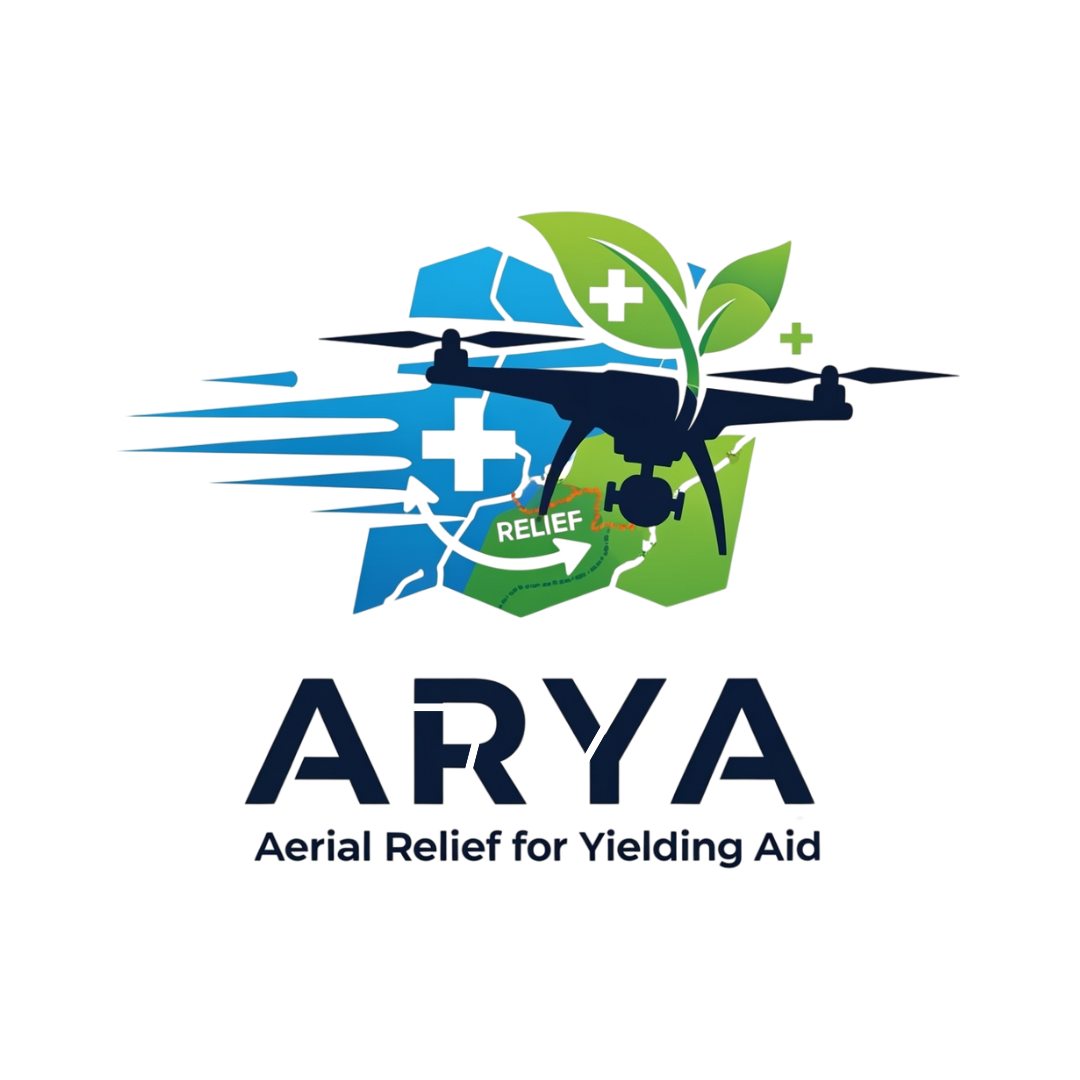
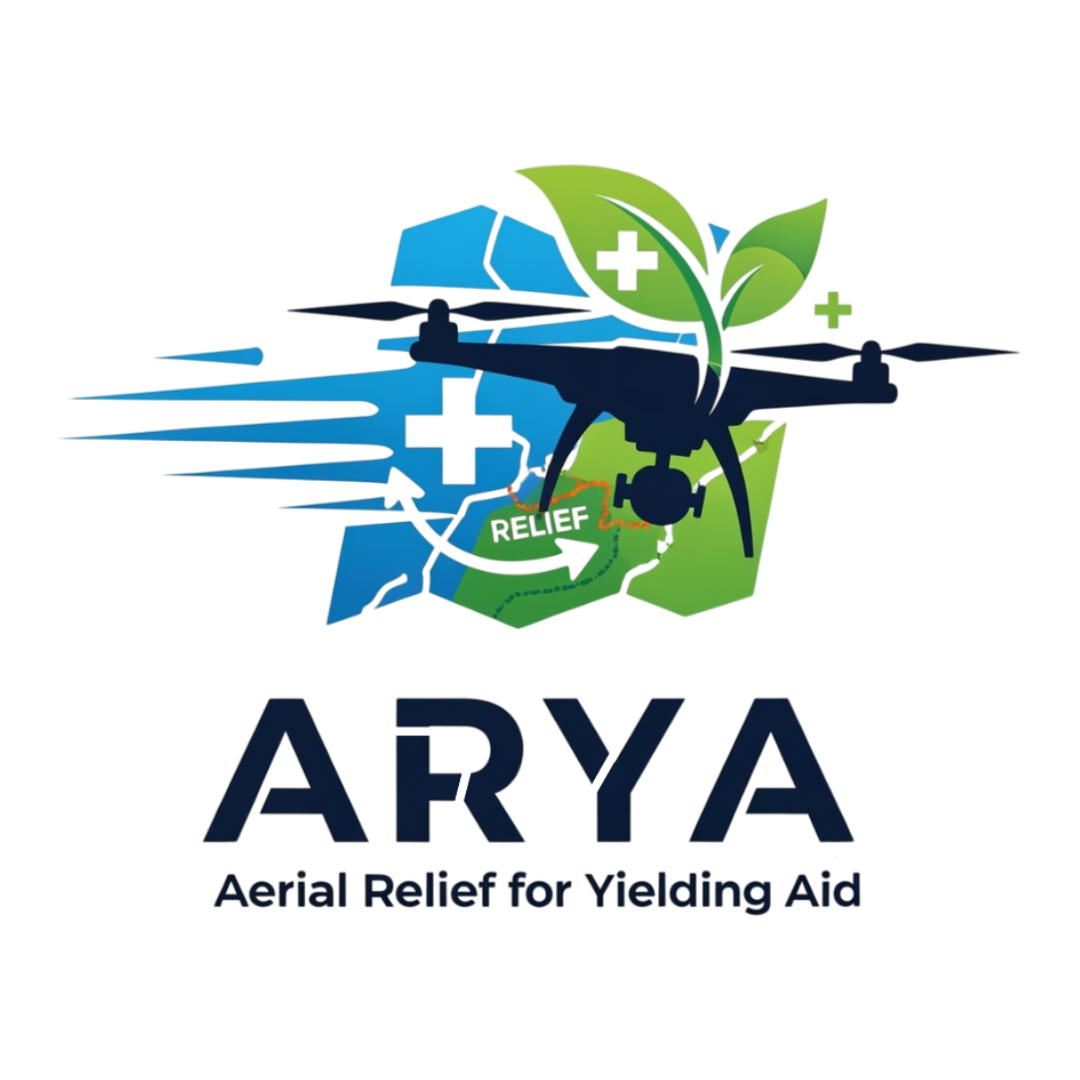
Merge pull request #3 from ARYA-GS/feature/tela-home
Feature/tela home

Pull request: Feature/tela home

Changed region(s): [[0.0611, 0.1528, 0.9472, 0.5806], [0.1833, 0.6111, 0.7944, 0.8556]]

diff --git a/app/pages/profile/profile.screen.tsx b/app/pages/profile/profile.screen.tsx
@@ -1,11 +1,192 @@
-import { View, Text } from 'react-native'
+import {
+  View,
+  Text,
+  StyleSheet,
+  ScrollView,
+  RefreshControl,
+  Alert,
+} from "react-native";
+import { Ionicons } from "@expo/vector-icons";
+import { useAuth } from "../../components/context/auth.context";
+import ButtonStandard from "../../components/common/button/button.standard";
+import { useCallback, useState } from "react";
+import { useNavigation } from "@react-navigation/native";
+
 
 const ProfileScreen = () => {
-  return (
-    <View>
-      <Text>profile.screen</Text>
-    </View>
-  )
-}
+  const { user, logout} = useAuth();
+  const navigation = useNavigation()
+  const [refreshing, setRefreshing] = useState(false);
 
-export default ProfileScreen
+  const onRefresh = useCallback(() => {
+    setRefreshing(true);
+  }, []);
+
+  const handleLogout = async () => {
+    try {
+      await logout();
+      navigation.navigate("Login")
+    } catch (error) {
+      Alert.alert("Erro", "Não foi possível sair da conta.");
+    }
+  };
+
+  return (
+    <ScrollView
+      contentContainerStyle={styles.container}
+      refreshControl={
+        <RefreshControl
+          refreshing={refreshing}
+          onRefresh={onRefresh}
+          colors={["#013EB0"]}
+          tintColor="#013EB0"
+        />
+      }
+    >
+      <View style={styles.profileHeader}>
+        <Text style={styles.headerText}>User Profile</Text>
+      </View>
+
+      <View style={styles.avatarSection}>
+        <Ionicons name="person-circle" size={72} color="#fff" />
+        <Text style={styles.userName}>{user?.nome}</Text>
+      </View>
+
+      <View style={styles.infoBox}>
+        <Text style={styles.label}>Name</Text>
+        <Text style={styles.info}>{user?.nome}</Text>
+
+        <Text style={styles.label}>Contact</Text>
+        <Text style={styles.info}>{user?.email}</Text>
+      </View>
+
+      <View style={styles.activityBox}>
+        <Text style={styles.label}>Recent Activity</Text>
+        <Text style={styles.activityValue}>37345%</Text>
+        <Text style={styles.syareLabel}>Syare</Text>
+        <Text style={styles.syareValue}>3,50%</Text>
+      </View>
+
+      <View style={styles.settingsBox}>
+        <Text style={styles.label}>Recent Activity</Text>
+
+        <View style={styles.settingItem}>
+          <Ionicons name="notifications" size={20} color="#fff" />
+          <Text style={styles.settingText}>Notification</Text>
+        </View>
+
+        <View style={styles.settingItem}>
+          <Ionicons name="language" size={20} color="#fff" />
+          <Text style={styles.settingText}>Language</Text>
+        </View>
+      </View>
+
+      <View style={styles.logoutButton}>
+        <ButtonStandard
+          text="Sair da conta"
+          color="#30d158"
+          width={370}
+          borderRadius={10}
+          onPress={handleLogout}
+        />
+      </View>
+    </ScrollView>
+  );
+};
+
+const styles = StyleSheet.create({
+  container: {
+    flex: 1,
+    backgroundColor: "#121212",
+    padding: 20,
+    flexGrow: 1,
+    paddingTop: 50,
+  },
+  appName: {
+    fontSize: 18,
+    color: "#fff",
+    fontWeight: "600",
+    textAlign: "center",
+    marginBottom: 20,
+  },
+  profileHeader: {
+    flexDirection: "row",
+    justifyContent: "space-between",
+    alignItems: "center",
+    marginBottom: 20,
+  },
+  headerText: {
+    color: "#fff",
+    fontSize: 20,
+    fontWeight: "700",
+  },
+  avatarSection: {
+    alignItems: "center",
+    marginBottom: 30,
+  },
+  userName: {
+    color: "#fff",
+    fontSize: 22,
+    fontWeight: "700",
+  },
+  userRole: {
+    color: "#aaa",
+    fontSize: 14,
+  },
+  infoBox: {
+    backgroundColor: "#1e1e1e",
+    padding: 16,
+    borderRadius: 12,
+    marginBottom: 20,
+  },
+  label: {
+    color: "#aaa",
+    fontSize: 14,
+    marginTop: 10,
+  },
+  info: {
+    color: "#fff",
+    fontSize: 16,
+  },
+  activityBox: {
+    backgroundColor: "#1e1e1e",
+    padding: 16,
+    borderRadius: 12,
+    marginBottom: 20,
+  },
+  activityValue: {
+    color: "#fff",
+    fontSize: 20,
+    fontWeight: "bold",
+  },
+  syareLabel: {
+    color: "#aaa",
+    marginTop: 10,
+  },
+  syareValue: {
+    color: "#4cd964",
+    fontSize: 18,
+    fontWeight: "bold",
+  },
+  settingsBox: {
+    backgroundColor: "#1e1e1e",
+    padding: 16,
+    borderRadius: 12,
+    marginBottom: 20,
+  },
+  settingItem: {
+    flexDirection: "row",
+    alignItems: "center",
+    marginTop: 12,
+  },
+  settingText: {
+    color: "#fff",
+    fontSize: 16,
+    marginLeft: 12,
+  },
+  logoutButton: {
+    alignItems: "center",
+  },
+});
+
+export default ProfileScreen;

diff --git a/app/pages/login/welcome.screen.tsx b/app/pages/login/welcome.screen.tsx
@@ -4,7 +4,6 @@ import ButtonStandard from "../../components/common/button/button.standard";
 import { RootStackParamList } from "../../routes/root.stack.navigation";
 import { StackNavigationProp } from "@react-navigation/stack";
 
-
 type WelcomeScreenNavigationProp = StackNavigationProp<
   RootStackParamList,
   "Welcome"
@@ -15,14 +14,13 @@ interface Props {
 }
 
 const WelcomeScreen = ({ navigation }: Props) => {
-
   const handleLogin = () => {
     navigation.navigate("Login");
-  }
+  };
 
-  const handleCadastro= () => {
+  const handleCadastro = () => {
     navigation.navigate("Cadastro");
-  }
+  };
 
   return (
     <View style={globalStyles.container}>
@@ -39,16 +37,24 @@ const WelcomeScreen = ({ navigation }: Props) => {
         <ButtonStandard
           text="Entrar"
           borderRadius={5}
-          color="#013E"
-           onPress={handleLogin}
+          color="#aaa"
+          onPress={handleLogin}
+          textColor="#fff"
+
         />
-        <ButtonStandard text="Cadastrar" borderRadius={5} color="#A4B494" onPress={handleCadastro}/>
+        <ButtonStandard
+          text="Cadastrar"
+          borderRadius={5}
+          color="#30d158"
+          onPress={handleCadastro}
+          textColor="#000"
+        />
       </View>
 
       <View style={styles.imageAryaContainer}>
         <Image
           style={styles.bottomImage}
-          source={require("../../assets/arya-colorido.png")}
+          source={require("../../assets/arya-colorido-branco.png")}
           resizeMode="contain"
         />
       </View>
@@ -61,7 +67,6 @@ export default WelcomeScreen;
 const styles = StyleSheet.create({
   imageContainer: {
     flex: 1,
-    width: "100%",
     justifyContent: "center",
     alignItems: "center",
     position: "absolute",
@@ -69,7 +74,7 @@ const styles = StyleSheet.create({
   flexContainerButton: {
     flexDirection: "row",
     justifyContent: "space-around",
-    gap: 10,
+    gap: 15,
     marginTop: 120,
   },
   containerTitle: {
@@ -80,12 +85,12 @@ const styles = StyleSheet.create({
   titulo: {
     fontSize: 30,
     fontWeight: "bold",
-    color: "#001133ed",
+    color: "#fff",
   },
   subTitulo: {
     fontSize: 16,
     fontWeight: "bold",
-    color: "#013E",
+    color: "#fff",
     textAlign: "center",
     marginTop: 10,
   },

diff --git a/app/routes/tab.navigation.tsx b/app/routes/tab.navigation.tsx
@@ -9,7 +9,7 @@ const Tab = createBottomTabNavigator();
 export default function TabNavigator() {
   return (
     <Tab.Navigator
-      screenOptions={({ route }) => ({
+      screenOptions={({ route }) => ({ 
         tabBarIcon: ({ focused, color, size }) => {
           let iconName: keyof typeof Ionicons.glyphMap = "home-outline";
 
@@ -21,9 +21,15 @@ export default function TabNavigator() {
 
           return <Ionicons name={iconName} size={size} color={color} />;
         },
-        tabBarActiveTintColor: "#013EB0",
-        tabBarInactiveTintColor: "gray",
-      })}
+        tabBarStyle: {
+            backgroundColor: '#000',
+            borderTopColor: '#242424', 
+          },
+          tabBarActiveTintColor: '#FFFFFF', 
+          tabBarInactiveTintColor: '#B0B0B0', 
+      })
+    }
+      
     >
       <Tab.Screen
         name="Home"

diff --git a/global.d.ts b/global.d.ts
@@ -1,0 +1,7 @@
+import { RootStackParamList } from "./app/routes/root.stack.navigation";
+
+declare global {
+  namespace ReactNavigation {
+    interface RootParamList extends RootStackParamList {}
+  }
+}

diff --git a/app/components/common/button/button.standard.tsx b/app/components/common/button/button.standard.tsx
@@ -2,6 +2,7 @@ import { StyleSheet, Text, TouchableOpacity } from "react-native";
 
 interface ButtonStandardProps {
   text: string;
+  textColor?: string;
   color?: string;
   width?: number;
   borderRadius?: number;
@@ -12,6 +13,7 @@ interface ButtonStandardProps {
 const ButtonStandard = ({
   text = "buttonText",
   color = "#013E",
+  textColor = "#fff",
   width = 150,
   borderRadius = 50,
   marginVertical = 20,
@@ -23,7 +25,7 @@ const ButtonStandard = ({
       style={[styles.button, { backgroundColor: color, width, marginVertical, borderRadius }]}
       onPress={onPress}
     >
-      <Text style={styles.text}>{text}</Text>
+      <Text style={[styles.text, { color: textColor }]}>{text}</Text>
     </TouchableOpacity>
   );
 };
@@ -36,7 +38,6 @@ const styles = StyleSheet.create({
     elevation: 2,
   },
   text: {
-    color: "#fff",
     fontSize: 16,
     fontWeight: "bold",
   },

diff --git a/app/routes/root.stack.navigation.tsx b/app/routes/root.stack.navigation.tsx
@@ -3,12 +3,14 @@ import TabNavigator from "./tab.navigation";
 import LoginScreen from "../pages/login/login.screen";
 import CadastroScreen from "../pages/login/cadastro.screen";
 import WelcomeScreen from "../pages/login/welcome.screen";
+import ProfileScreen from "../pages/profile/profile.screen";
 
 export type RootStackParamList = {
   TabNavigation: { screen: string } | undefined;
   Welcome: undefined;
   Login: undefined;
   Cadastro: undefined;
+  ProfileScreen: undefined;
   Home: undefined;
 };
 
@@ -24,6 +26,7 @@ export function RootStackNavigation() {
       <Stack.Screen name="Welcome" component={WelcomeScreen} />
       <Stack.Screen name="Login" component={LoginScreen} />
       <Stack.Screen name="Cadastro" component={CadastroScreen} />
+      <Stack.Screen name="ProfileScreen" component={ProfileScreen} />
     </Stack.Navigator>
   );
 }